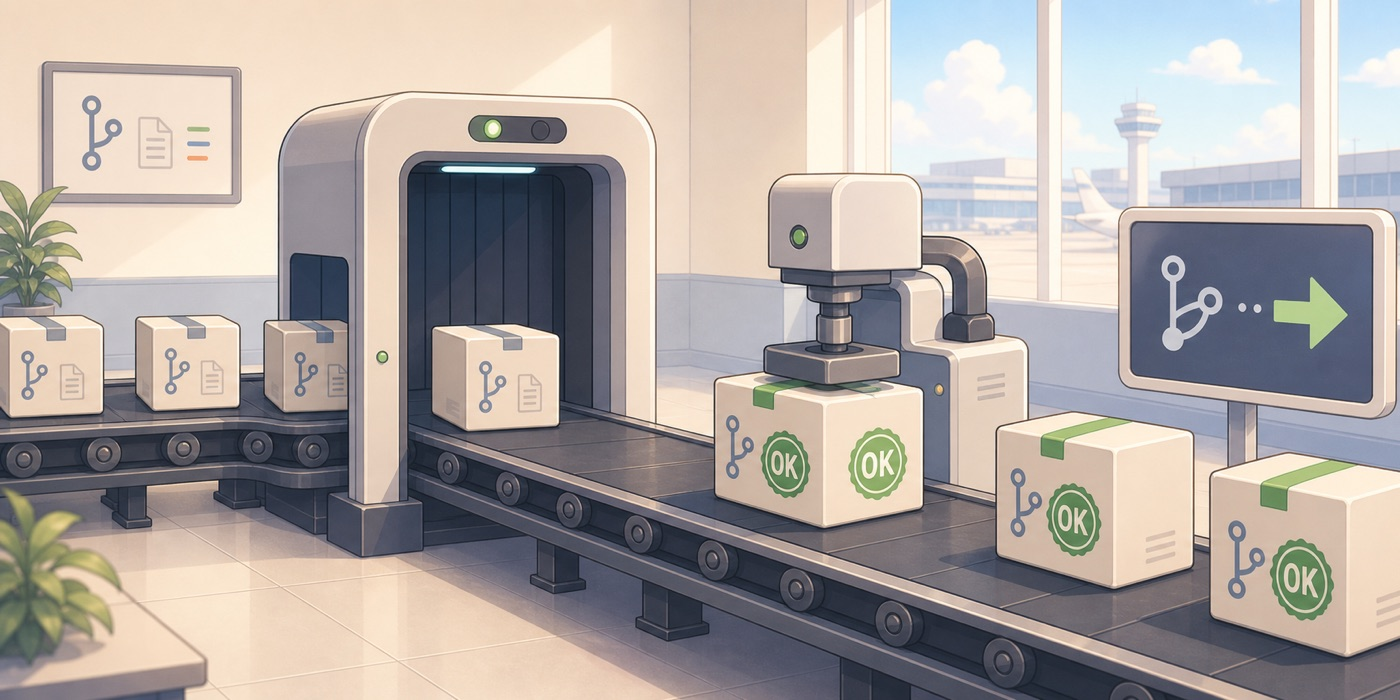
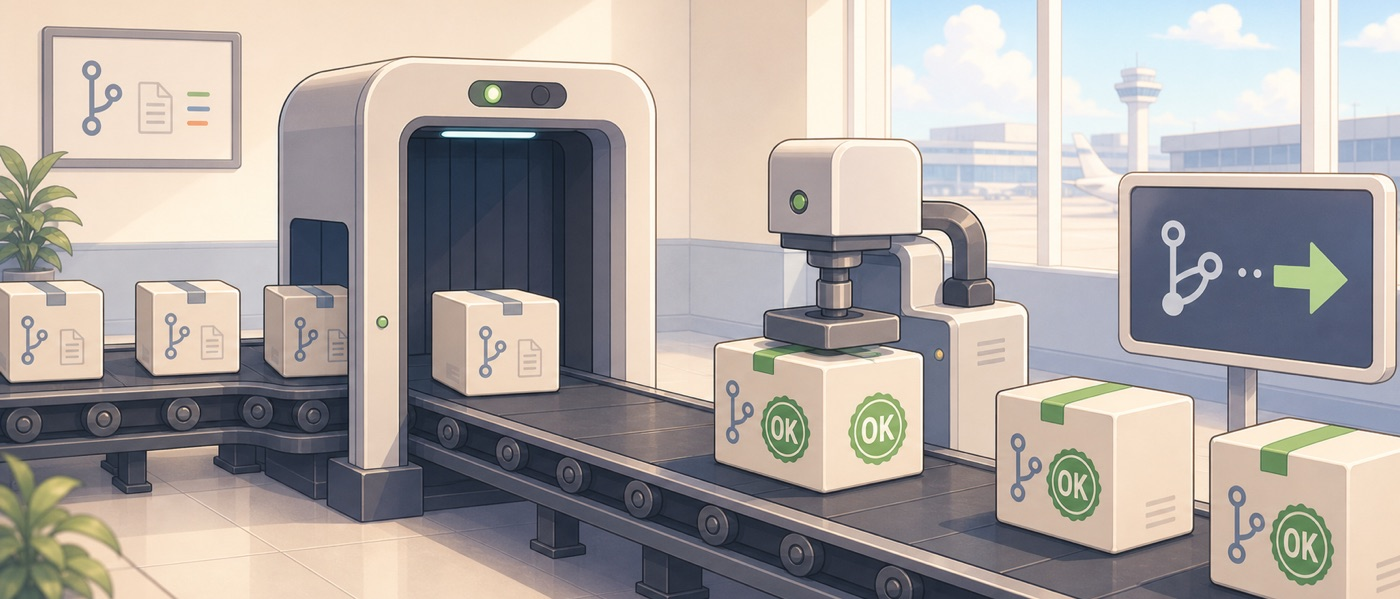
Crop README hero image
Entire-Checkpoint: 3b1e77b608f3

diff --git a/README.md b/README.md
@@ -1,7 +1,7 @@
 # pr-seal-action
 
 <p align="center">
-  <img src="docs/assets/pr-seal-action-hero.jpg" alt="pr-seal-action illustration: pull request packages pass inspection and receive an OK seal" width="100%" />
+  <img src="docs/assets/pr-seal-action-hero.jpg" alt="pr-seal-action illustration: pull request packages pass inspection and receive an OK seal" width="92%" />
 </p>
 
 `pr-seal-action` verifies that a pull request was created by an expected author and only changes allowed files, then seals it by approving it and enabling auto-merge with the verified head SHA.
